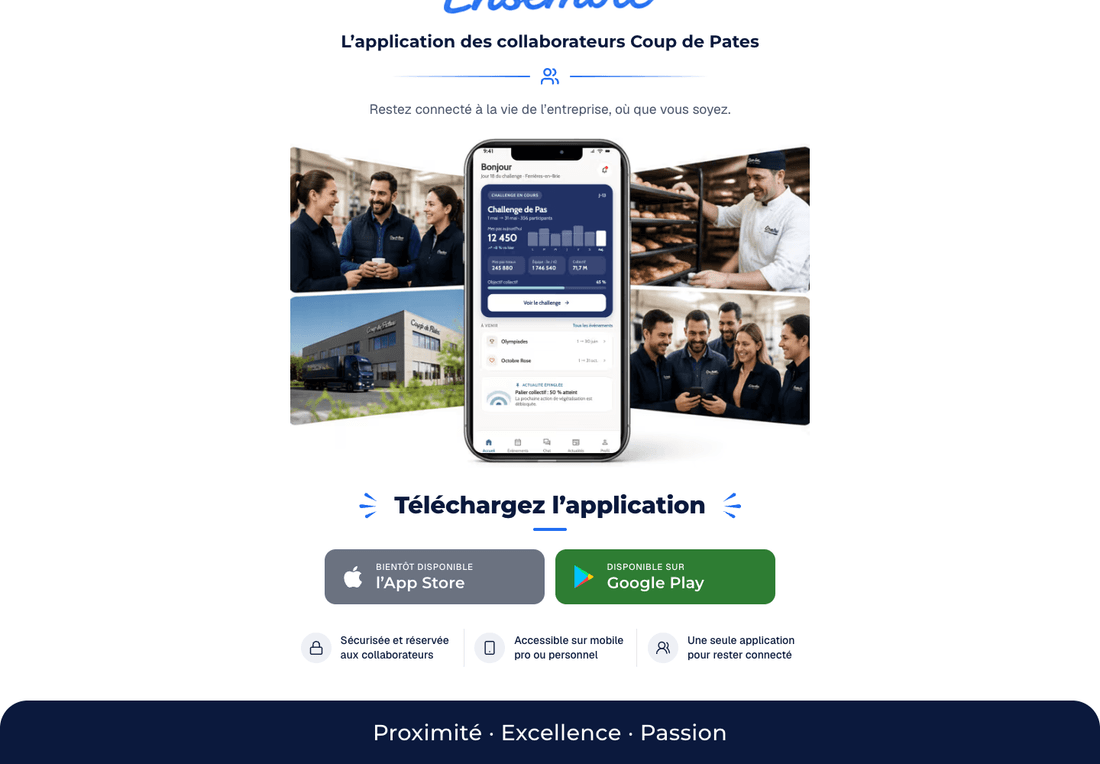
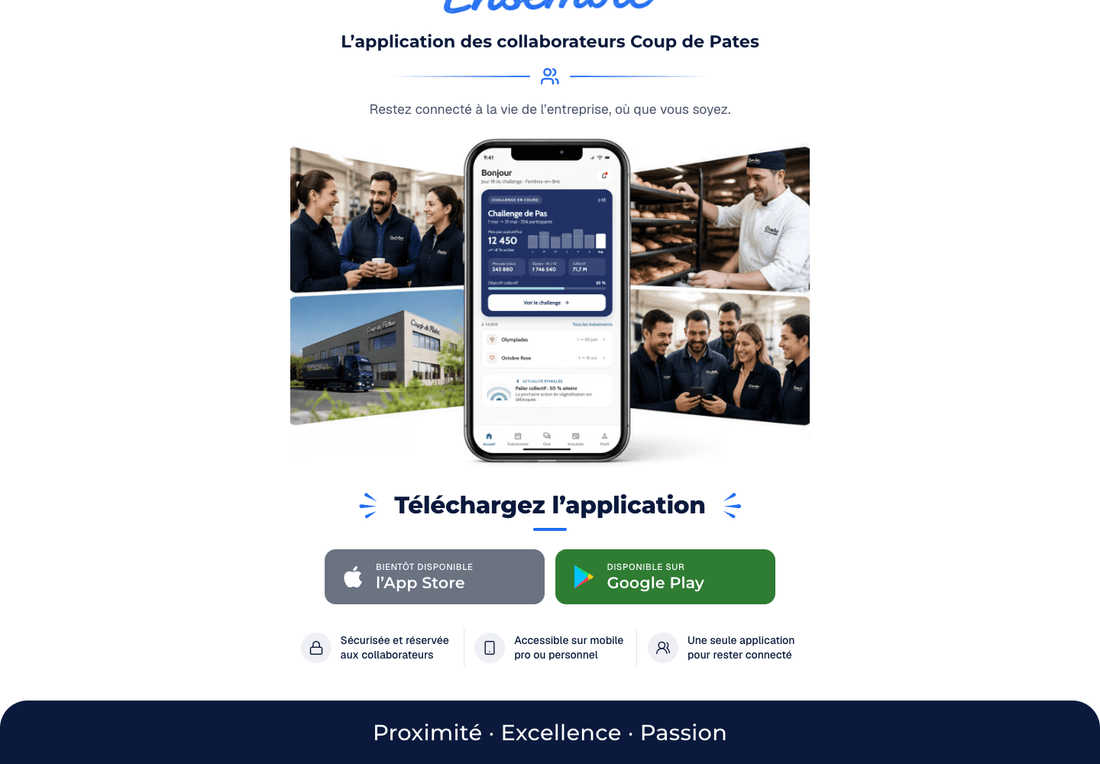
fix(coup-de-pates): seat the app screen properly in the phone
The insert read as a sticker stuck on the render. Three reasons, all
measured on the mock-up's own phone rather than guessed:

- The corner radius was 13px against the frame's 30px, so the screen cut
  its corners off inside the bezel. Measured by walking in from the frame
  at eight depths on all four corners; a 30px circle fits every one.
- The screen was cropped top and bottom to match the aspect ratio, which
  squeezed the status bar against the frame and left the tab labels
  hanging off the bottom edge. It now fits whole, and the 4% horizontal
  stretch that costs is invisible at this size.
- iOS's home indicator was missing. It is drawn back at the size and
  offset the mock-up's own phone used.

The mask is also feathered by half a pixel: the mock-up blends frame into
screen over one pixel, and a hard edge is exactly what reads as pasted.

Renamed to app-accueil.webp. The URL change retires the cached copies of
the previous export, and the name says what the montage shows.

Changed region(s): [[0.4327, 0.1806, 0.5564, 0.5419], [0.4327, 0.572, 0.5564, 0.6021], [0.5255, 0.1806, 0.5564, 0.2107]]

diff --git a/src/components/coup-de-pates/EnsembleLanding.tsx b/src/components/coup-de-pates/EnsembleLanding.tsx
@@ -49,7 +49,7 @@ export function EnsembleLanding({ fontClassName }: { fontClassName: string }) {
         </p>
 
         <Image
-          src="/images/coup-de-pates-ensemble/montage-accueil.webp"
+          src="/images/coup-de-pates-ensemble/app-accueil.webp"
           alt="L’écran d’accueil de l’application Coup de Pates Ensemble sur un téléphone, entouré de photos de collaborateurs, d’un site logistique et d’un boulanger au travail."
           width={1500}
           height={952}
